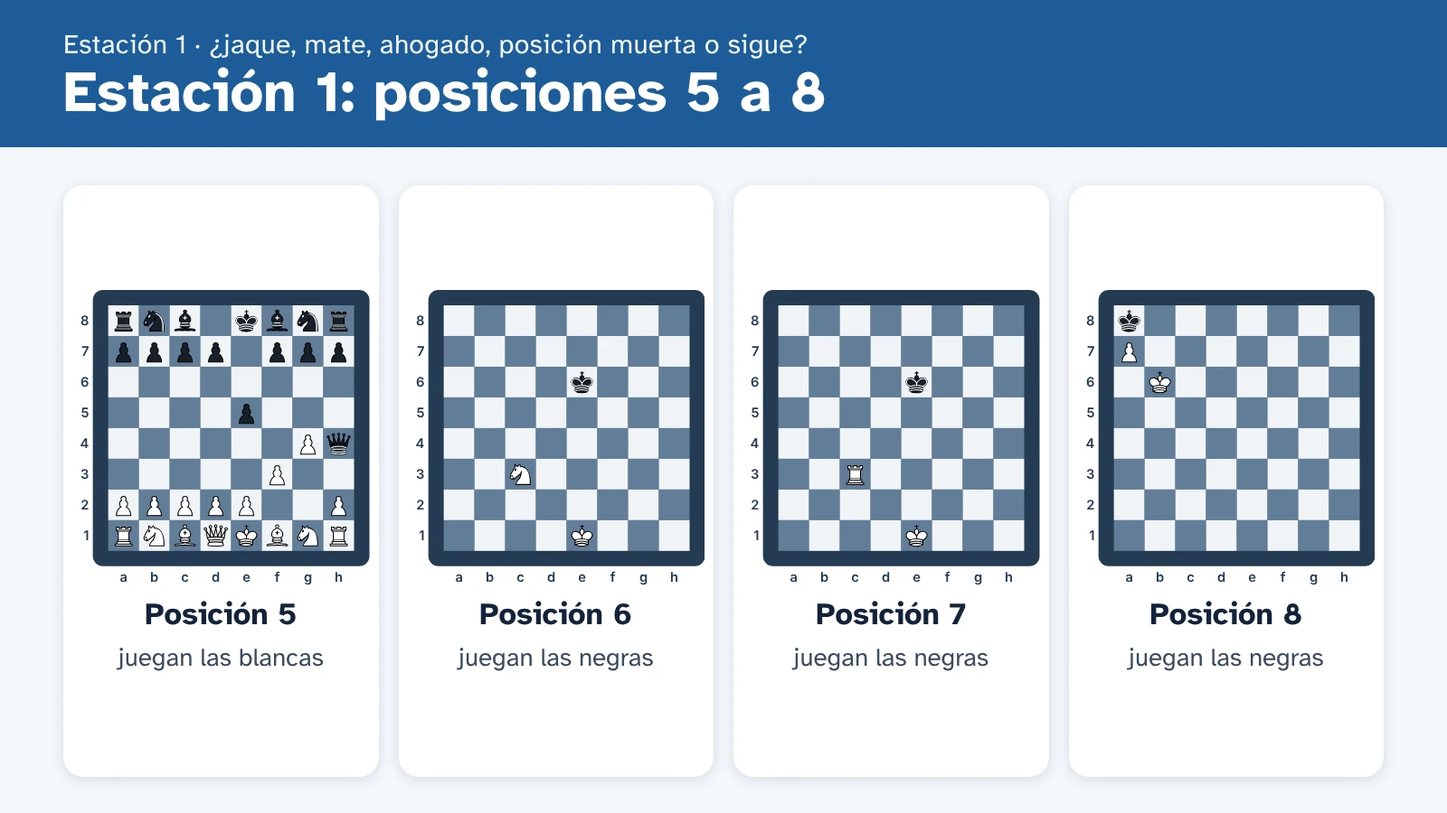
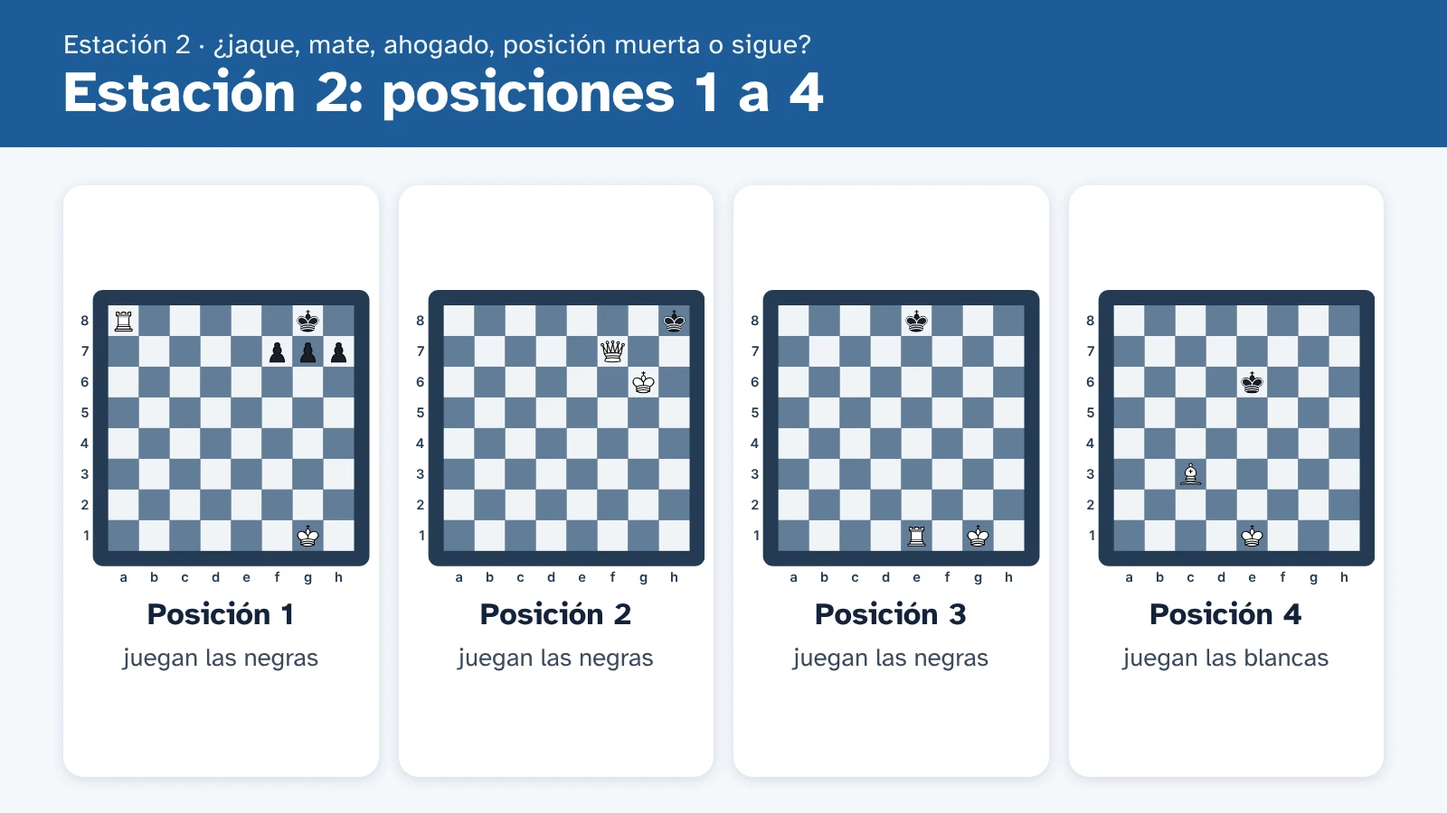
Práctica de la Sesión 1: el dictado va primero (#971)
El dictado pasa a la lámina 1; le siguen las ocho posiciones (2 y 3), los tres
reclamos (4 a 6) y los cuatro casos (7 a 10), con las estaciones renumeradas 1 a 4.

- Migración practica_dictado_primero (ya aplicada): renumera las claves en dos
  pasos y vuelve a sembrar las de esa práctica. practica_respuestas estaba vacía.
- La presentación propia se vuelve a dibujar; el verificador sigue el nuevo orden.

Claude-Session: https://claude.ai/code/session_014dsUceffyXb8qTw9edfYXC

diff --git a/herramientas/verificar-clase-formacion.js b/herramientas/verificar-clase-formacion.js
@@ -92,9 +92,10 @@ function losDatos() {
   cierto("todas las preguntas tienen la forma que lee la página", preguntas.every((x) => FPura().preguntaValida(x.q)));
   const p1 = json.practicas[0];
   igual("la Sesión 1 usa su presentación propia: ocho posiciones, el dictado, tres reclamos y cuatro casos (10 láminas)", [p1.deck, p1.laminas.length], ["formacion-ajedrez/practica-01", 10]);
-  igual("Estación 1: ocho preguntas de opciones, de cinco opciones cada una",
-    p1.laminas.slice(0, 2).flatMap((l) => l.preguntas).map((q) => [q.tipo, q.opciones.length]).filter(([t, n]) => t === "opciones" && n === 5).length, 8);
-  igual("Estación 2: la planilla, de diez filas", p1.laminas[2].preguntas.map((q) => [q.tipo, q.filas]), [["planilla", 10]]);
+  igual("el dictado es lo primero de la práctica (lámina 1)", [p1.laminas[0].titulo, p1.laminas[0].preguntas.map((q) => q.tipo)], ["Estación 1: dictado de planilla", ["planilla"]]);
+  igual("Estación 2: ocho preguntas de opciones, de cinco opciones cada una",
+    p1.laminas.slice(1, 3).flatMap((l) => l.preguntas).map((q) => [q.tipo, q.opciones.length]).filter(([t, n]) => t === "opciones" && n === 5).length, 8);
+  igual("Estación 1: la planilla, de diez filas", p1.laminas[0].preguntas.map((q) => [q.tipo, q.filas]), [["planilla", 10]]);
   igual("Estaciones 3 y 4: una pregunta de texto por lámina, siete láminas", p1.laminas.slice(3).map((l) => l.preguntas.map((q) => q.tipo)), Array(7).fill(["texto"]));
   igual("sesiones 2 a 6: un ejercicio, una caja de texto", json.practicas.slice(1).flatMap((p) => p.laminas.filter((l) => /^Ejercicio/.test(l.titulo)))
     .every((l) => l.preguntas.length === 1 && l.preguntas[0].tipo === "texto"), true);
@@ -107,7 +108,7 @@ function losDatos() {
   }));
   // La siembra que se aplicó a la base es la de ahora.
   const dirMig = path.join(RAIZ, "supabase", "migraciones");
-  const siembras = fs.readdirSync(dirMig).filter((f) => /practica_claves/.test(f)).sort();
+  const siembras = fs.readdirSync(dirMig).filter((f) => /insert into public\.practica_claves/.test(fs.readFileSync(path.join(dirMig, f), "utf8"))).sort();
   const sembrado = siembras.map((f) => fs.readFileSync(path.join(dirMig, f), "utf8")).join("\n");
   const filasSql = generador.sqlDeClaves(claves).split("\n").filter((l) => l.startsWith("  ("));
   cierto("la siembra de claves (" + siembras.join(", ") + ") trae cada fila de lo que el generador arma hoy",
@@ -379,28 +380,32 @@ const rpcsDe = (page, n) => page.evaluate((nombre) => (window.__rpcs || []).filt
 async function pruebaDeLasRespuestas(browser) {
   console.log("\n=== El alumno contesta: opciones, texto y la planilla del dictado ===");
   const { page, ctx, errores } = await abrir(browser, "u-ana", CLASE, { game_state: [fila({ practica: PRACTICA_1 })] }, { extra: BASE_DE_RESPUESTAS });
-  await page.waitForFunction(() => document.getElementById("formacion-tarjeta").checkVisibility() && document.querySelectorAll("#formacion-preguntas fieldset").length === 4, null, { timeout: 20000 });
-  igual("Estación 1: cuatro preguntas, cada una con sus cinco opciones, escritas",
+  // Lo primero que ve es el dictado (lámina 1): su planilla.
+  await page.waitForFunction(() => document.getElementById("formacion-tarjeta").checkVisibility() && document.querySelectorAll("#formacion-preguntas table input").length === 20, null, { timeout: 20000 });
+  igual("la práctica empieza por el dictado: lámina 1 y su planilla", await page.textContent("#formacion-cuenta"), "Lámina 1 de 10 · 0 de 10 completadas");
+  await page.click("#formacion-pasos button:nth-child(2)");
+  await page.waitForFunction(() => document.querySelectorAll("#formacion-preguntas fieldset").length === 4, null, { timeout: 8000 });
+  igual("Estación 2: cuatro preguntas, cada una con sus cinco opciones, escritas",
     await page.evaluate(() => [...document.querySelectorAll("#formacion-preguntas fieldset")].map((f) => [f.querySelector("legend").textContent, f.querySelectorAll("input[type=radio]").length])),
     [["Posición 1 (juegan las negras)", 5], ["Posición 2 (juegan las negras)", 5], ["Posición 3 (juegan las negras)", 5], ["Posición 4 (juegan las blancas)", 5]]);
   igual("la corrección no está a la vista: ninguna opción dice cuál es la buena", await page.evaluate(() => document.getElementById("formacion-preguntas").innerHTML.includes("correcta")), false);
-  await page.check("#fq-1-p1-0");
+  await page.check("#fq-2-p1-0");
   await page.waitForFunction(() => window.__guardadas.length === 1, null, { timeout: 5000 });
-  igual("elegir una opción la guarda al instante, por responder_practica", await guardadas(page), [[1, "p1", "mate"]]);
+  igual("elegir una opción la guarda al instante, por responder_practica", await guardadas(page), [[2, "p1", "mate"]]);
   igual("y dice «Guardada ✓»", await page.textContent("#formacion-preguntas fieldset >> nth=0 >> p[role=status]"), "Guardada ✓");
-  await page.check("#fq-1-p2-0");
-  await page.check("#fq-1-p2-1");
+  await page.check("#fq-2-p2-0");
+  await page.check("#fq-2-p2-1");
   await page.waitForFunction(() => window.__guardadas.some((r) => r.p_pregunta === "p2" && r.p_respuesta === "ahogado"), null, { timeout: 5000 });
-  igual("cambiar de opinión reemplaza la respuesta, no la suma", (await guardadas(page)).filter((g) => g[1] === "p2"), [[1, "p2", "ahogado"]]);
+  igual("cambiar de opinión reemplaza la respuesta, no la suma", (await guardadas(page)).filter((g) => g[1] === "p2"), [[2, "p2", "ahogado"]]);
   const args = await page.evaluate(() => window.__rpcs.find((r) => r.n === "responder_practica").args);
-  igual("manda el envío, la práctica, la lámina y la pregunta", [args.p_envio, args.p_deck, args.p_lamina, args.p_pregunta], ["pr1-envio", "formacion-ajedrez/practica-01", 1, "p1"]);
+  igual("manda el envío, la práctica, la lámina y la pregunta", [args.p_envio, args.p_deck, args.p_lamina, args.p_pregunta], ["pr1-envio", "formacion-ajedrez/practica-01", 2, "p1"]);
   await page.waitForFunction(() => { const t = (window.__tracks || []).filter((x) => x.formacion).slice(-1)[0]; return !!t && t.formacion.r === 2; }, null, { timeout: 6000 });
   igual("anuncia cuántas lleva contestadas (el profe se entera)", await page.evaluate(() => window.__tracks.filter((x) => x.formacion).slice(-1)[0].formacion), { id: "pr1-envio", h: [], r: 2 });
 
-  // La planilla del dictado.
-  await page.click("#formacion-pasos button:nth-child(3)");
+  // La planilla del dictado (lámina 1).
+  await page.click("#formacion-pasos button:nth-child(1)");
   await page.waitForFunction(() => document.querySelectorAll("#formacion-preguntas table input").length === 20, null, { timeout: 5000 });
-  igual("Estación 2: la planilla de diez filas, con cada casilla dicha en voz («3.ª jugada de las blancas»)",
+  igual("Estación 1: la planilla de diez filas, con cada casilla dicha en voz («3.ª jugada de las blancas»)",
     await page.evaluate(() => [document.querySelectorAll("#formacion-preguntas tbody tr").length, document.querySelectorAll("#formacion-preguntas table input")[4].getAttribute("aria-label")]), [10, "3.ª jugada de las blancas"]);
   const celdas = await page.$$("#formacion-preguntas table input");
   await celdas[0].fill("e4"); await celdas[1].fill("e5"); await celdas[2].fill("Cf3");
@@ -411,7 +416,7 @@ async function pruebaDeLasRespuestas(browser) {
   // Texto libre: se guarda con el botón, y lo escrito sin guardar se guarda al pasar de lámina.
   await page.click("#formacion-pasos button:nth-child(4)");
   await page.waitForSelector("#formacion-preguntas textarea", { timeout: 5000 });
-  igual("Estación 3: «Tu decisión y el artículo que aplicas», con su caja de texto",
+  igual("Estación 3 (reclamo 1): «Tu decisión y el artículo que aplicas», con su caja de texto",
     await page.evaluate(() => [document.querySelector("#formacion-preguntas label").textContent, document.querySelector("#formacion-preguntas textarea").labels.length]), ["Tu decisión y el artículo que aplicas", 1]);
   await page.fill("#formacion-preguntas textarea", "Debe mover el alfil (art. 4.3).");
   await page.click("#formacion-preguntas button:has-text('Guardar mi respuesta')");
@@ -447,9 +452,11 @@ async function pruebaDeLasRespuestas(browser) {
 
   // Recargar: lo contestado vuelve de la base.
   const { page: p2, ctx: c2 } = await abrir(browser, "u-ana", CLASE, { game_state: [fila({ practica: PRACTICA_1 })] }, { extra: BASE_DE_RESPUESTAS
-    + 'window.__guardadas.push({ p_envio: "pr1-envio", p_deck: "formacion-ajedrez/practica-01", p_lamina: 1, p_pregunta: "p3", p_respuesta: "jaque" });'
+    + 'window.__guardadas.push({ p_envio: "pr1-envio", p_deck: "formacion-ajedrez/practica-01", p_lamina: 2, p_pregunta: "p3", p_respuesta: "jaque" });'
     + 'window.__guardadas.push({ p_envio: "pr1-envio", p_deck: "formacion-ajedrez/practica-01", p_lamina: 4, p_pregunta: "decision", p_respuesta: "Mi decisión de antes" });' });
-  await p2.waitForFunction(() => document.querySelectorAll("#formacion-preguntas input:checked").length === 1, null, { timeout: 20000 });
+  await p2.waitForFunction(() => document.querySelectorAll("#formacion-preguntas table input").length === 20, null, { timeout: 20000 });
+  await p2.click("#formacion-pasos button:nth-child(2)");
+  await p2.waitForFunction(() => document.querySelectorAll("#formacion-preguntas input:checked").length === 1, null, { timeout: 8000 });
   igual("al entrar de nuevo, su opción de antes sigue marcada", await p2.evaluate(() => document.querySelector("#formacion-preguntas input:checked").value), "jaque");
   await p2.click("#formacion-pasos button:nth-child(4)");
   await p2.waitForSelector("#formacion-preguntas textarea");
@@ -458,8 +465,10 @@ async function pruebaDeLasRespuestas(browser) {
 
   // «Ver como alumno»: el profe mira cómo se ve, sin dejar nada en la clase.
   const { page: p3, ctx: c3 } = await abrir(browser, "u-profe", CLASE, { game_state: [fila({ practica: PRACTICA_1 })] }, { ruta: "/sesion.html?como=alumno", extra: BASE_DE_RESPUESTAS });
-  await p3.waitForFunction(() => document.querySelectorAll("#formacion-preguntas fieldset").length === 4, null, { timeout: 20000 });
-  await p3.check("#fq-1-p1-0");
+  await p3.waitForFunction(() => document.querySelectorAll("#formacion-preguntas table input").length === 20, null, { timeout: 20000 });
+  await p3.click("#formacion-pasos button:nth-child(2)");
+  await p3.waitForFunction(() => document.querySelectorAll("#formacion-preguntas fieldset").length === 4, null, { timeout: 8000 });
+  await p3.check("#fq-2-p1-0");
   await p3.waitForFunction(() => /Vista previa/.test(document.querySelector("#formacion-preguntas p[role=status]").textContent), null, { timeout: 5000 });
   igual("en la vista previa no se manda nada a la base", await rpcsDe(p3, "responder_practica"), 0);
   await c3.close();
@@ -471,10 +480,10 @@ async function pruebaDelProfeConRespuestas(browser) {
   const fil = (id, lamina, pregunta, respuesta, correcta, extra) => Object.assign({ student_id: id, envio: "pr1-envio", titulo: PRACTICA_1.titulo, deck: PRACTICA_1.deck, lamina, pregunta, respuesta,
     correcta, buenas: null, total: null, created_at: "2026-10-20T15:00:00Z", updated_at: "2026-10-20T15:05:00Z" }, extra || {});
   const respuestas = [
-    fil("u-ana", 1, "p1", "mate", true), fil("u-ana", 1, "p2", "mate", false), fil("u-ana", 1, "p3", "jaque", true),
-    fil("u-ana", 3, "planilla", JSON.stringify(["e4", "E5", "C f3", "d6", "Ac4", "Ag4", "Cc3", "g6", "Ce5", "Axd1", "Axf7+", "Re7", "Cd5#"]), false, { buenas: 12, total: 13 }),
+    fil("u-ana", 2, "p1", "mate", true), fil("u-ana", 2, "p2", "mate", false), fil("u-ana", 2, "p3", "jaque", true),
+    fil("u-ana", 1, "planilla", JSON.stringify(["e4", "E5", "C f3", "d6", "Ac4", "Ag4", "Cc3", "g6", "Ce5", "Axd1", "Axf7+", "Re7", "Cd5#"]), false, { buenas: 12, total: 13 }),
     fil("u-ana", 4, "decision", "Debe mover el alfil (art. 4.3).", null),
-    fil("u-beto", 1, "p1", "ahogado", false), fil("u-beto", 4, "decision", "<b>Pierde la partida</b>", null),
+    fil("u-beto", 2, "p1", "ahogado", false), fil("u-beto", 4, "decision", "<b>Pierde la partida</b>", null),
   ];
   const { page, ctx, errores } = await abrir(browser, "u-profe", CLASE, { game_state: [fila({ practica: PRACTICA_1 })], puede_bajar: ["formacion-ajedrez"],
     practica_respuestas: respuestas, practica_claves: claves });
@@ -494,14 +503,17 @@ async function pruebaDelProfeConRespuestas(browser) {
     ["Ana Rojas2 de 9 bien · 5 sin contestar", "Beto Mora0 de 9 bien · 8 sin contestar", "Ceci Vargas0 de 9 bien · 9 sin contestar"]);
   igual("lo que cuenta es una pregunta de opciones o la planilla; el texto libre no se califica",
     await page.textContent("#formacion-resp-notas p"), "Calificación: 9 preguntas con respuesta correcta (la planilla cuenta como una: sale bien si todas sus jugadas están bien).");
-  igual("Estación 1: la respuesta modelo (solo del profe) y lo que eligieron, escrito",
+  // Al abrir, la lámina que ve es la primera de la práctica (el dictado): elige la de las posiciones.
+  await page.selectOption("#formacion-resp-lamina", "2");
+  await page.waitForFunction(() => /Qué eligieron/.test(document.getElementById("formacion-resp-lista").textContent), null, { timeout: 5000 });
+  igual("Estación 2: la respuesta modelo (solo del profe) y lo que eligieron, escrito",
     await page.evaluate(() => { const b = document.querySelector("#formacion-resp-lista > div.border"); return [b.textContent.includes("Respuesta modelo (solo tú): Jaque mate"), b.querySelector("p.text-xs.mt-1:not(.bg-green-50)").textContent.startsWith("Qué eligieron: Jaque mate: la partida terminó 1 · Ahogado: tablas 1")]; }), [true, true]);
   igual("cada alumno con su marca escrita (✓ bien / ✗ mal) y lo que eligió",
     await page.evaluate(() => [...document.querySelectorAll("#formacion-resp-lista > div:nth-of-type(2) li")].map((li) => li.textContent)),
     ["Ana Rojas ✓ bien: Jaque mate: la partida terminó", "Beto Mora ✗ mal: Ahogado: tablas"]);
   igual("y quién no contestó esa pregunta", await page.evaluate(() => [...document.querySelectorAll("#formacion-resp-lista > div:nth-of-type(2) p")].pop().textContent), "Sin contestar: Ceci Vargas");
   // La planilla: qué jugada falló y cuál era.
-  await page.selectOption("#formacion-resp-lamina", "3");
+  await page.selectOption("#formacion-resp-lamina", "1");
   await page.waitForFunction(() => /jugadas bien/.test(document.getElementById("formacion-resp-lista").textContent), null, { timeout: 5000 });
   igual("la planilla: cuántas jugadas bien, cuál falló y cuál era, y la partida dictada para el profe",
     await page.evaluate(() => { const t = document.getElementById("formacion-resp-lista").textContent; return [t.includes("La partida dictada: 1. e4 e5 2. Cf3"), t.includes("Ana Rojas ✗ mal: 12 de 13 jugadas bien · 5.ª jugada de las blancas: escribió «Ce5», era «Cxe5»")]; }), [true, true]);
@@ -517,26 +529,28 @@ async function pruebaDelProfeConRespuestas(browser) {
 async function pruebaDeLasReveladas(browser) {
   console.log("\n=== El profe muestra la respuesta: el alumno la ve con su artículo y ya no contesta esa lámina ===");
   const filasReveladas = [
-    { deck: PRACTICA_1.deck, lamina: 1, pregunta: "p1", tipo: "opciones", opcion: "mate", modelo: "Jaque mate: el rey está en jaque y no tiene ninguna jugada legal. La partida terminó (art. 5.1).", respondio: true, correcta: true, buenas: null, total: null },
-    { deck: PRACTICA_1.deck, lamina: 1, pregunta: "p2", tipo: "opciones", opcion: "ahogado", modelo: "Ahogado: el rey no está en jaque (art. 5.2.1).", respondio: true, correcta: false, buenas: null, total: null },
-    { deck: PRACTICA_1.deck, lamina: 1, pregunta: "p3", tipo: "opciones", opcion: "jaque", modelo: "Jaque, pero no mate (art. 3.9).", respondio: false, correcta: null, buenas: null, total: null },
-    { deck: PRACTICA_1.deck, lamina: 1, pregunta: "p4", tipo: "opciones", opcion: "muerta", modelo: "Posición muerta (art. 5.2.2).", respondio: false, correcta: null, buenas: null, total: null },
-    { deck: PRACTICA_1.deck, lamina: 3, pregunta: "planilla", tipo: "planilla", opcion: null, modelo: "La partida dictada: 1. e4 e5 2. Cf3 d6", respondio: true, correcta: false, buenas: 12, total: 13 },
+    { deck: PRACTICA_1.deck, lamina: 2, pregunta: "p1", tipo: "opciones", opcion: "mate", modelo: "Jaque mate: el rey está en jaque y no tiene ninguna jugada legal. La partida terminó (art. 5.1).", respondio: true, correcta: true, buenas: null, total: null },
+    { deck: PRACTICA_1.deck, lamina: 2, pregunta: "p2", tipo: "opciones", opcion: "ahogado", modelo: "Ahogado: el rey no está en jaque (art. 5.2.1).", respondio: true, correcta: false, buenas: null, total: null },
+    { deck: PRACTICA_1.deck, lamina: 2, pregunta: "p3", tipo: "opciones", opcion: "jaque", modelo: "Jaque, pero no mate (art. 3.9).", respondio: false, correcta: null, buenas: null, total: null },
+    { deck: PRACTICA_1.deck, lamina: 2, pregunta: "p4", tipo: "opciones", opcion: "muerta", modelo: "Posición muerta (art. 5.2.2).", respondio: false, correcta: null, buenas: null, total: null },
+    { deck: PRACTICA_1.deck, lamina: 1, pregunta: "planilla", tipo: "planilla", opcion: null, modelo: "La partida dictada: 1. e4 e5 2. Cf3 d6", respondio: true, correcta: false, buenas: 12, total: 13 },
     { deck: PRACTICA_1.deck, lamina: 4, pregunta: "decision", tipo: "texto", opcion: null, modelo: "Pieza tocada: debe mover el alfil (art. 4.3).", respondio: true, correcta: null, buenas: null, total: null },
   ];
   const sembrar = BASE_DE_RESPUESTAS + "window.__reveladas = " + JSON.stringify(filasReveladas) + ";"
-    + 'window.__guardadas.push({ p_envio: "pr1-envio", p_deck: "formacion-ajedrez/practica-01", p_lamina: 1, p_pregunta: "p1", p_respuesta: "mate" });'
+    + 'window.__guardadas.push({ p_envio: "pr1-envio", p_deck: "formacion-ajedrez/practica-01", p_lamina: 2, p_pregunta: "p1", p_respuesta: "mate" });'
     + 'window.__guardadas.push({ p_envio: "pr1-envio", p_deck: "formacion-ajedrez/practica-01", p_lamina: 4, p_pregunta: "decision", p_respuesta: "Mi decisión" });';
 
   // Sin mostrar nada: ni una palabra de la respuesta en la pantalla.
   const a = await abrir(browser, "u-ana", CLASE, { game_state: [fila({ practica: PRACTICA_1 })] }, { extra: sembrar });
-  await a.page.waitForFunction(() => document.querySelectorAll("#formacion-preguntas fieldset").length === 4, null, { timeout: 20000 });
+  await a.page.waitForFunction(() => document.querySelectorAll("#formacion-preguntas table input").length === 20, null, { timeout: 20000 });
+  await a.page.click("#formacion-pasos button:nth-child(2)");
+  await a.page.waitForFunction(() => document.querySelectorAll("#formacion-preguntas fieldset").length === 4, null, { timeout: 8000 });
   igual("antes de mostrarla no hay ninguna respuesta en su pantalla (ni se le pidió a la base)",
     [await a.page.evaluate(() => /art\. 5\.1|La respuesta correcta/.test(document.getElementById("formacion-tarjeta").textContent)), await rpcsDe(a.page, "respuestas_reveladas_practica")], [false, 0]);
   igual("y puede contestar (las opciones no están apagadas)", await a.page.evaluate(() => [...document.querySelectorAll("#formacion-preguntas input[type=radio]")].some((r) => r.disabled)), false);
 
   // El profe la muestra (llega por la base, como Realtime): aparece sin recargar.
-  await a.page.evaluate((p) => window.__cambioEnBase("game_state", Object.assign({ id: 7, owner_id: "u-profe" }, { practica: p })), Object.assign({}, PRACTICA_1, { reveladas: [1] }));
+  await a.page.evaluate((p) => window.__cambioEnBase("game_state", Object.assign({ id: 7, owner_id: "u-profe" }, { practica: p })), Object.assign({}, PRACTICA_1, { reveladas: [2] }));
   await a.page.waitForFunction(() => document.querySelectorAll("#formacion-preguntas fieldset")[0].textContent.includes("La respuesta correcta"), null, { timeout: 8000 });
   igual("la respuesta aparece sola: la correcta, el artículo y cómo le fue (escrito)",
     await a.page.evaluate(() => [...document.querySelectorAll("#formacion-preguntas fieldset")].map((f) => f.querySelector(".bg-green-50").innerText.replace(/\s+/g, " ").trim())), [
@@ -546,11 +560,11 @@ async function pruebaDeLasReveladas(browser) {
       "La respuesta correcta Posición muerta: tablas Posición muerta (art. 5.2.2). No contestaste esta pregunta."]);
   igual("esa lámina ya no se puede contestar: todo apagado, y su respuesta de antes sigue marcada",
     await a.page.evaluate(() => [[...document.querySelectorAll("#formacion-preguntas input[type=radio]")].every((r) => r.disabled), document.querySelector("#formacion-preguntas input:checked").value]), [true, "mate"]);
-  await a.page.waitForFunction(() => /Tu profe mostró la respuesta de la lámina 1/.test(document.getElementById("clase-voz").textContent), null, { timeout: 4000 }).catch(() => {});
-  igual("se le avisa en voz (Modo Adaptado)", await a.page.evaluate(() => /Tu profe mostró la respuesta de la lámina 1/.test(document.getElementById("clase-voz").textContent)), true);
+  await a.page.waitForFunction(() => /Tu profe mostró la respuesta de la lámina 2/.test(document.getElementById("clase-voz").textContent), null, { timeout: 4000 }).catch(() => {});
+  igual("se le avisa en voz (Modo Adaptado)", await a.page.evaluate(() => /Tu profe mostró la respuesta de la lámina 2/.test(document.getElementById("clase-voz").textContent)), true);
   // La planilla y el texto, ya mostrados.
-  await a.page.evaluate((p) => window.__cambioEnBase("game_state", Object.assign({ id: 7, owner_id: "u-profe" }, { practica: p })), Object.assign({}, PRACTICA_1, { reveladas: [1, 3, 4] }));
-  await a.page.click("#formacion-pasos button:nth-child(3)");
+  await a.page.evaluate((p) => window.__cambioEnBase("game_state", Object.assign({ id: 7, owner_id: "u-profe" }, { practica: p })), Object.assign({}, PRACTICA_1, { reveladas: [1, 2, 4] }));
+  await a.page.click("#formacion-pasos button:nth-child(1)");
   await a.page.waitForFunction(() => document.querySelectorAll("#formacion-preguntas table input").length === 20 && document.querySelector("#formacion-preguntas .bg-green-50"), null, { timeout: 8000 });
   igual("la planilla: la partida dictada (sin repetir el rótulo) y cuántas jugadas le salieron bien; sus casillas, apagadas",
     await a.page.evaluate(() => [document.querySelector("#formacion-preguntas .bg-green-50").innerText.replace(/\s+/g, " ").trim(), [...document.querySelectorAll("#formacion-preguntas table input")].every((i) => i.disabled)]),

diff --git a/herramientas/formacion-practicas.js b/herramientas/formacion-practicas.js
@@ -22,9 +22,9 @@
  *       La Sesión 1 no usa las láminas de su presentación: en salas, cada
  *       estación se resolvía de a grupos y sus láminas no traen la pregunta de
  *       cada posición ni el caso de cada reclamo. Para la práctica individual
- *       se arma una presentación aparte (las 8 posiciones, el dictado, los tres
- *       reclamos con la persona árbitra y los cuatro casos del laboratorio, uno
- *       por lámina) con el mismo dibujador de las demás (formacion-laminas.js).
+ *       se arma una presentación aparte, que EMPIEZA con el dictado (estación 1),
+ *       sigue con las 8 posiciones (2), los tres reclamos con la persona árbitra
+ *       (3) y los cuatro casos del laboratorio, uno por lámina (4) con el mismo dibujador de las demás (formacion-laminas.js).
  *       Las posiciones y los casos salen del curso: no hay una segunda copia.
  *
  * Las láminas de las sesiones 2 a 6 son las que ya se proyectan («Práctica ·»,
@@ -54,7 +54,7 @@ const DATOS_PROPIO = path.join(RAIZ, "herramientas", "datos", "formacion-laminas
 const ES_PRACTICA = [/^Práctica\b/, /^Ejercicio \d+ de \d+$/, /^Estación \d+:/];
 const NUNCA = /respuestas|^Quiz\b|^Tarea\b|^Receso$/i;
 
-/* Las cinco situaciones de la Estación 1: las mismas opciones para las ocho
+/* Las cinco situaciones de la Estación 2 (las posiciones): las mismas opciones para las ocho
    posiciones, en este orden. La correcta sale del `estado` de cada ejercicio
    del curso, y arriba se vuelve a calcular con chess.js. */
 const ESTADOS = [
@@ -65,7 +65,7 @@ const ESTADOS = [
   { v: "sigue", t: "No hay jaque ni final: la partida sigue" },
 ];
 
-/* La partida del dictado (Estación 2), en notación algebraica española: lleva
+/* La partida del dictado (Estación 1, lo primero de la práctica), en notación algebraica española: lleva
    capturas, un jaque y el mate. Es la del ejemplo de las notas de la lámina 45
    de la Clase 1 (el mate de Légal), comprobada con chess.js al armar. */
 const DICTADO = "e4 e5 Cf3 d6 Ac4 Ag4 Cc3 g6 Cxe5 Axd1 Axf7+ Re7 Cd5#".split(" ");
@@ -128,7 +128,7 @@ function presentacionDeLaSesion1(curso, clase1) {
   if (!e1 || !e2) throw new Error("No encuentro las láminas de la Estación 1 en la Clase 1");
   const lados = (fen) => (fen.split(" ")[1] === "w" ? "juegan las blancas" : "juegan las negras");
   const tablero = (d, k) => ({
-    tipo: "tableros", k: "Estación 1 · ¿jaque, mate, ahogado, posición muerta o sigue?",
+    tipo: "tableros", k: "Estación 2 · ¿jaque, mate, ahogado, posición muerta o sigue?",
     items: d.posiciones.map((p, i) => ({ pos: i, t: "Posición " + (k + i), s: lados(p.fen) })),
   });
   const diapositivas = [], datos = [], laminas = [];
@@ -141,7 +141,22 @@ function presentacionDeLaSesion1(curso, clase1) {
   const claves = [];
   const clave = (n, pregunta, tipo, c, modelo) => claves.push({ deck: CURSO + "/" + DECK_PROPIO, lamina: n, pregunta, tipo, clave: c, modelo });
 
-  // Estación 1: las ocho posiciones, cuatro por lámina.
+  // Estación 1: el dictado, lo primero de la práctica.
+  comprobarElDictado();
+  {
+    const n = diapositivas.length + 1;
+    clave(n, "planilla", "planilla", DICTADO, "La partida dictada: " + lineaDelDictado(DICTADO));
+    poner("Estación 1: dictado de planilla",
+      "Estación 1. Dictado de planilla: tu profe dicta una partida en voz alta, sin mostrar el tablero. Anótala jugada a jugada en la planilla de abajo, con notación algebraica española: capturas, jaque y mate.",
+      { tipo: "filas", k: "Estación 1 · una persona dicta, todas anotan", items: [
+        { ic: "🗣", t: "Tu profe dicta la partida", s: "en voz alta, sin mostrar el tablero" },
+        { ic: "✍", t: "Tú la anotas", s: "jugada a jugada, en la planilla de la pantalla" },
+        { ic: "🔎", t: "Con capturas, jaque y mate", s: "cada signo cuenta: x, + y #" },
+      ], clave: "7 jugadas. Cuando termines, marca la lámina como completada." }, null,
+      [{ id: "planilla", tipo: "planilla", texto: "Tu planilla", filas: FILAS_PLANILLA }]);
+  }
+
+  // Estación 2: las ocho posiciones, cuatro por lámina.
   [[e1, 1], [e2, 5]].forEach(([d, desde]) => {
     const n = diapositivas.length + 1;
     const preguntas = d.posiciones.map((p, i) => {
@@ -153,26 +168,11 @@ function presentacionDeLaSesion1(curso, clase1) {
       clave(n, "p" + num, "opciones", { correcta: ej.estado }, ej.respuesta);
       return { id: "p" + num, tipo: "opciones", texto: "Posición " + num + " (" + lados(p.fen) + ")", opciones: ESTADOS };
     });
-    poner("Estación 1: posiciones " + desde + " a " + (desde + 3),
-      "Estación 1. Posiciones " + desde + " a " + (desde + 3) + ": " + d.posiciones.map((p, i) => "posición " + (desde + i) + ", " + lados(p.fen)).join("; ")
+    poner("Estación 2: posiciones " + desde + " a " + (desde + 3),
+      "Estación 2. Posiciones " + desde + " a " + (desde + 3) + ": " + d.posiciones.map((p, i) => "posición " + (desde + i) + ", " + lados(p.fen)).join("; ")
       + ". Para cada una, indica si es jaque mate, ahogado, jaque con la partida en marcha, posición muerta o si la partida sigue.",
       tablero(d, desde), { posiciones: d.posiciones }, preguntas);
   });
-
-  // Estación 2: el dictado.
-  comprobarElDictado();
-  {
-    const n = diapositivas.length + 1;
-    clave(n, "planilla", "planilla", DICTADO, "La partida dictada: " + lineaDelDictado(DICTADO));
-    poner("Estación 2: dictado de planilla",
-      "Estación 2. Dictado de planilla: tu profe dicta una partida en voz alta, sin mostrar el tablero. Anótala jugada a jugada en la planilla de abajo, con notación algebraica española: capturas, jaque y mate.",
-      { tipo: "filas", k: "Estación 2 · una persona dicta, todas anotan", items: [
-        { ic: "🗣", t: "Tu profe dicta la partida", s: "en voz alta, sin mostrar el tablero" },
-        { ic: "✍", t: "Tú la anotas", s: "jugada a jugada, en la planilla de la pantalla" },
-        { ic: "🔎", t: "Con capturas, jaque y mate", s: "cada signo cuenta: x, + y #" },
-      ], clave: "7 jugadas. Cuando termines, marca la lámina como completada." }, null,
-      [{ id: "planilla", tipo: "planilla", texto: "Tu planilla", filas: FILAS_PLANILLA }]);
-  }
 
   // Estación 3: tres reclamos, la persona árbitra eres tú.
   RECLAMOS.forEach((r, i) => {

diff --git a/herramientas/datos/formacion-laminas-practica-01.js b/herramientas/datos/formacion-laminas-practica-01.js
@@ -1,8 +1,30 @@
 /* Generado por herramientas/formacion-practicas.js: no se edita a mano. */
 module.exports = [
  {
+  "tipo": "filas",
+  "k": "Estación 1 · una persona dicta, todas anotan",
+  "items": [
+   {
+    "ic": "🗣",
+    "t": "Tu profe dicta la partida",
+    "s": "en voz alta, sin mostrar el tablero"
+   },
+   {
+    "ic": "✍",
+    "t": "Tú la anotas",
+    "s": "jugada a jugada, en la planilla de la pantalla"
+   },
+   {
+    "ic": "🔎",
+    "t": "Con capturas, jaque y mate",
+    "s": "cada signo cuenta: x, + y #"
+   }
+  ],
+  "clave": "7 jugadas. Cuando termines, marca la lámina como completada."
+ },
+ {
   "tipo": "tableros",
-  "k": "Estación 1 · ¿jaque, mate, ahogado, posición muerta o sigue?",
+  "k": "Estación 2 · ¿jaque, mate, ahogado, posición muerta o sigue?",
   "items": [
    {
     "pos": 0,
@@ -28,7 +50,7 @@ module.exports = [
  },
  {
   "tipo": "tableros",
-  "k": "Estación 1 · ¿jaque, mate, ahogado, posición muerta o sigue?",
+  "k": "Estación 2 · ¿jaque, mate, ahogado, posición muerta o sigue?",
   "items": [
    {
     "pos": 0,
@@ -51,28 +73,6 @@ module.exports = [
     "s": "juegan las negras"
    }
   ]
- },
- {
-  "tipo": "filas",
-  "k": "Estación 2 · una persona dicta, todas anotan",
-  "items": [
-   {
-    "ic": "🗣",
-    "t": "Tu profe dicta la partida",
-    "s": "en voz alta, sin mostrar el tablero"
-   },
-   {
-    "ic": "✍",
-    "t": "Tú la anotas",
-    "s": "jugada a jugada, en la planilla de la pantalla"
-   },
-   {
-    "ic": "🔎",
-    "t": "Con capturas, jaque y mate",
-    "s": "cada signo cuenta: x, + y #"
-   }
-  ],
-  "clave": "7 jugadas. Cuando termines, marca la lámina como completada."
  },
  {
   "tipo": "frase",

diff --git a/docs/decisiones/clase-en-vivo.md b/docs/decisiones/clase-en-vivo.md
@@ -2132,7 +2132,7 @@ analizarlo en clase y calificarlo después. Hay tres clases de pregunta
 (`practicas.json`, `laminas[].preguntas[]`):
 
 - **De opciones**: cada una con sus opciones; se guarda al elegir. Se corrige sola
-  (la correcta está en la base). Son las ocho posiciones de la Estación 1
+  (la correcta está en la base). Son las ocho posiciones de la Estación 2
   («Jaque mate», «Ahogado», «Jaque, pero la partida sigue», «Posición muerta»,
   «No hay jaque ni final»), cuatro por lámina, con la situación que dice el curso
   y que se vuelve a calcular con chess.js al generar (si una posición cambia y
@@ -2142,7 +2142,7 @@ analizarlo en clase y calificarlo después. Hay tres clases de pregunta
   reclamos de la Estación 3 (el alumno siempre es la persona árbitra), los cuatro
   casos del laboratorio de la Estación 4, uno por lámina, y cada «Ejercicio k de
   N» de las sesiones 2 a 6.
-- **La planilla** del dictado (Estación 2): diez filas de blancas y negras. El
+- **La planilla** del dictado (Estación 1, **lo primero de la práctica**: lámina 1): diez filas de blancas y negras. El
   profe dicta en voz alta, sin mostrar el tablero, y todos anotan. La base la
   compara con la partida dictada (7 jugadas, con capturas, un jaque y el mate:
   el mate de Légal, comprobada con chess.js) jugada por jugada: sin espacios,
@@ -2150,6 +2150,17 @@ analizarlo en clase y calificarlo después. Hay tres clases de pregunta
   **sin su x, su + o su # NO vale**: es justo lo que el dictado quiere ver. Sale
   bien solo si todas están bien y no hay jugadas de más; el profe ve cuántas y
   cuál falló.
+
+**El orden de la práctica de la Sesión 1** (pedido del dueño, 20/10): el dictado
+primero (lámina 1), las ocho posiciones (2 y 3), los tres reclamos (4 a 6) y los
+cuatro casos (7 a 10), con las estaciones renumeradas 1 a 4 en ese orden (las
+láminas de la presentación de la clase siguen con su numeración de salas). Como
+las claves van por número de lámina, el cambio se aplicó con la migración
+`practica_dictado_primero`: renumera las claves en dos pasos (la llave primaria no
+deja cruzar dos filas en un mismo UPDATE) y vuelve a sembrar las de esa práctica;
+se hizo con `practica_respuestas` vacía, porque una respuesta ya guardada habría
+quedado en la lámina equivocada. **Cambiar el orden de nuevo con respuestas
+guardadas pide mover también `practica_respuestas`.**
 
 **La presentación propia de la Sesión 1** (`presentaciones/practica-01/`, 10
 láminas): las láminas de sus estaciones eran para trabajar en salas y no traen
